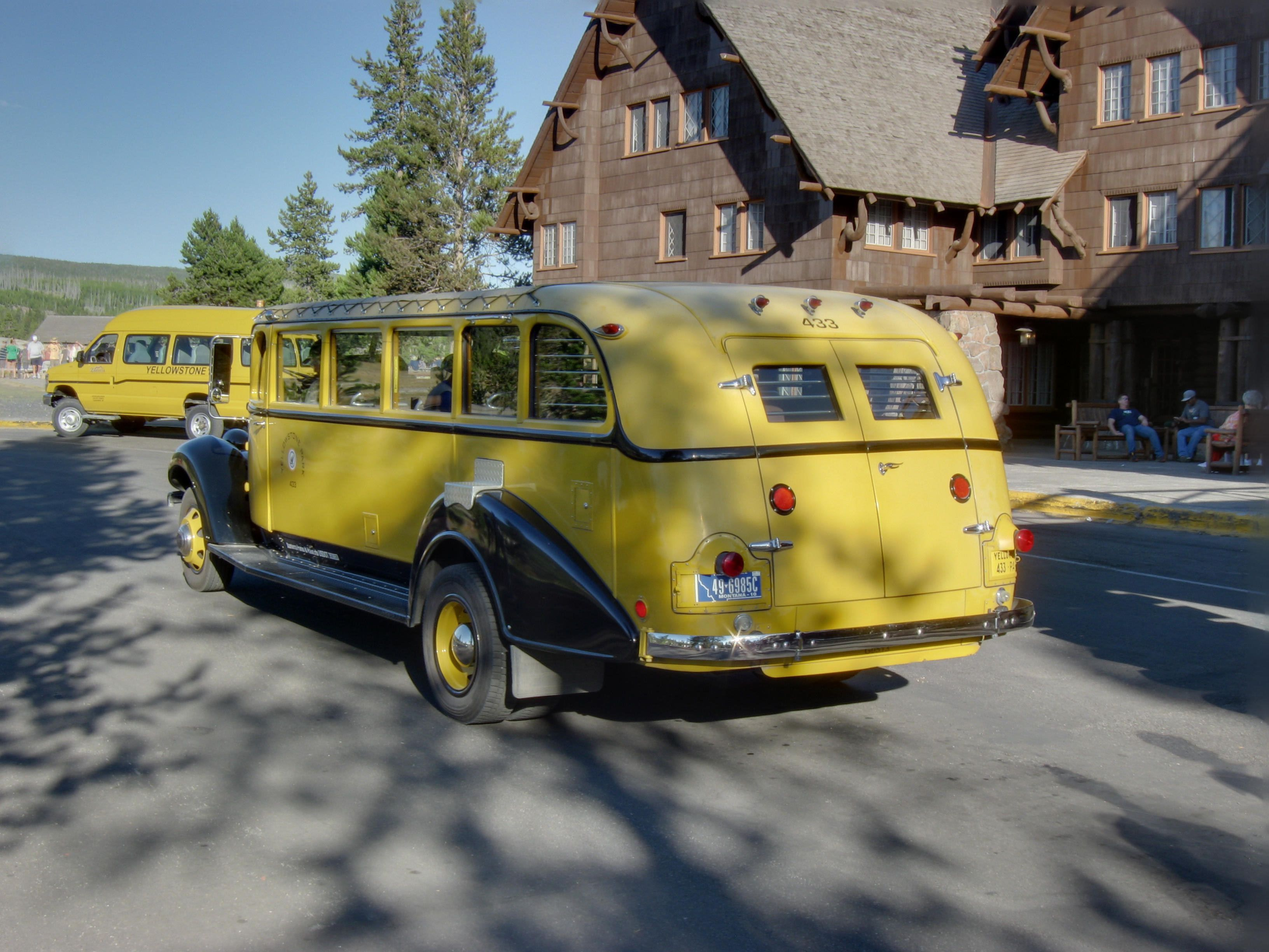
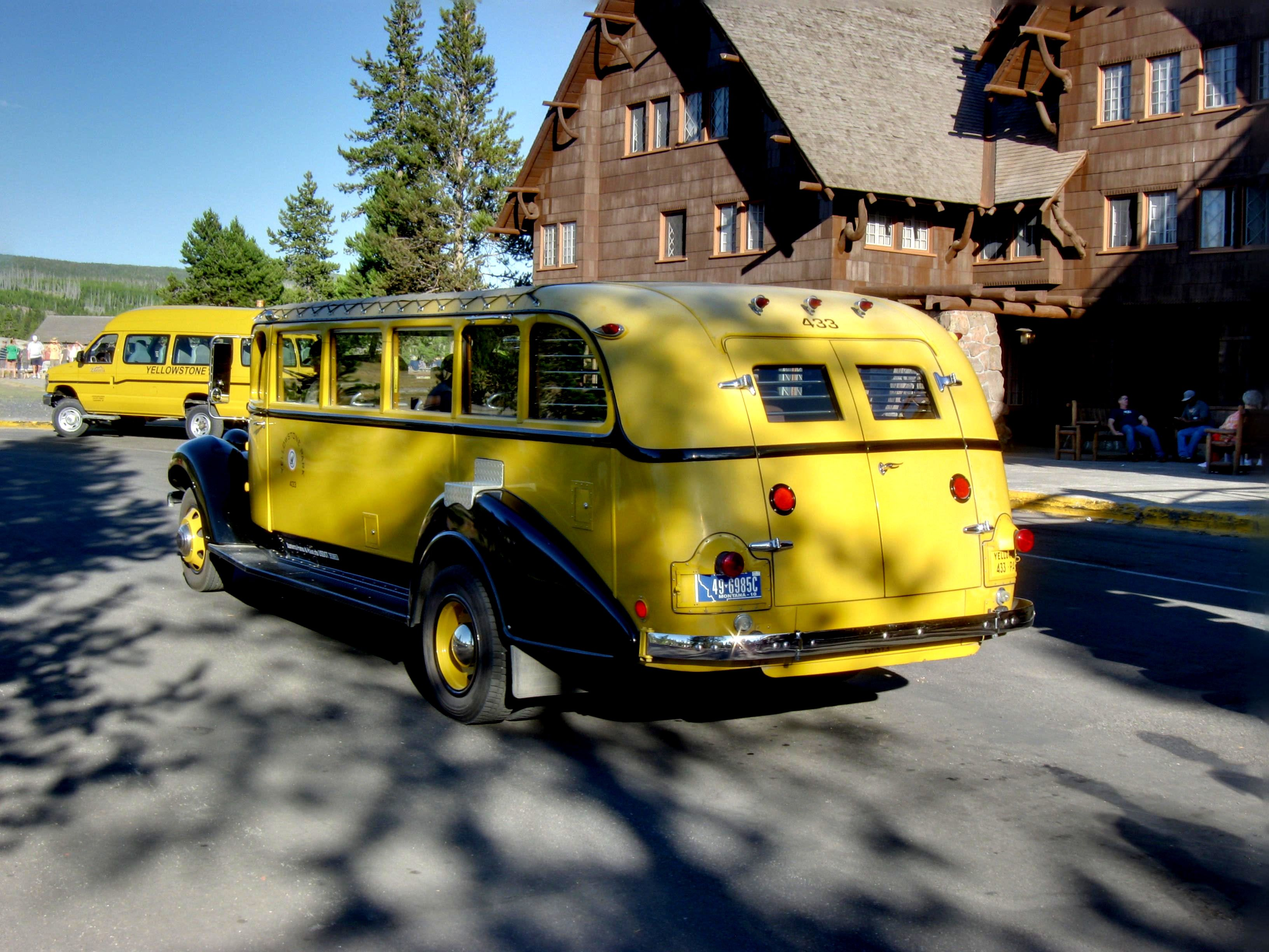
Fixed a picture.

diff --git a/_posts/2016-07-25-Yellowstone-Old-Faithful.md b/_posts/2016-07-25-Yellowstone-Old-Faithful.md
@@ -48,7 +48,7 @@ After finishing the West Thumb Basin Trail, we moved to the Old Faithful area.
      description="A geothermal pool" %}
   {% include image.html url="20160726-001202.jpg"
      description="The Belgian Pool" %}
-  {% include image.html url="20160726-001836.jpg"
+  {% include image.html url="20160726-001836.jpg" rotation="3.39"
      description="The Chromatic Pool" %}
   {% include image.html url="20160726-004219.jpg"
      description="The Crested Pool" %}
